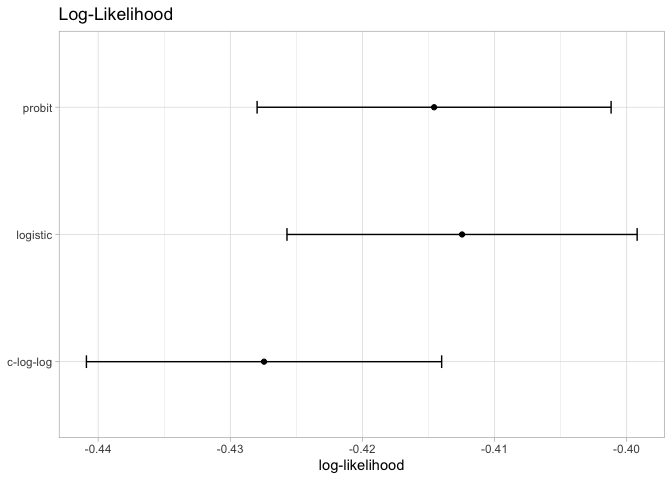
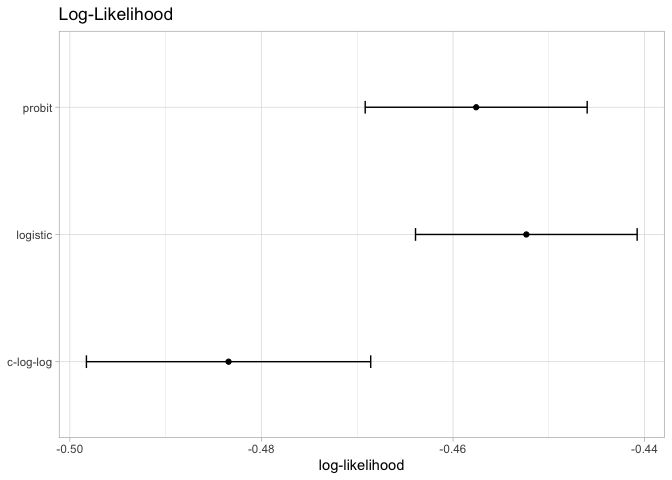
fixing math equations

diff --git a/tmwr/chapter12_tuning.md b/tmwr/chapter12_tuning.md
@@ -36,7 +36,7 @@ with two predictors, two classes, and a training set of 593 data points.
     ## ✖ dplyr::filter()  masks stats::filter()
     ## ✖ dplyr::lag()     masks stats::lag()
     ## ✖ recipes::step()  masks stats::step()
-    ## • Use tidymodels_prefer() to resolve common conflicts.
+    ## • Search for functions across packages at https://www.tidymodels.org/find/
 
     tidymodels_prefer()
 
@@ -51,16 +51,16 @@ with two predictors, two classes, and a training set of 593 data points.
     ## # A tibble: 593 × 3
     ##        A     B Class 
     ##    <dbl> <dbl> <fct> 
-    ##  1 1.90  1.75  Class1
-    ##  2 1.97  2.40  Class2
-    ##  3 1.40  1.16  Class1
-    ##  4 1.71  0.954 Class1
-    ##  5 3.31  2.41  Class2
-    ##  6 0.722 0.545 Class1
-    ##  7 2.88  1.97  Class2
-    ##  8 1.69  1.99  Class2
-    ##  9 2.07  1.65  Class1
-    ## 10 2.53  1.77  Class1
+    ##  1 1.01  0.699 Class1
+    ##  2 3.92  2.73  Class2
+    ##  3 1.13  0.799 Class1
+    ##  4 1.34  0.940 Class1
+    ##  5 3.82  2.16  Class2
+    ##  6 1.18  1.62  Class2
+    ##  7 2.24  1.63  Class2
+    ##  8 1.61  1.71  Class2
+    ##  9 0.606 0.371 Class1
+    ## 10 3.64  1.41  Class1
     ## # ℹ 583 more rows
 
     training_set |> 
@@ -93,9 +93,9 @@ set (using `broom::glance()`):
     ## # A tibble: 3 × 2
     ##   logLik link     
     ##    <dbl> <chr>    
-    ## 1  -241. logit    
-    ## 2  -242. probit   
-    ## 3  -249. c-log-log
+    ## 1  -265. logit    
+    ## 2  -268. probit   
+    ## 3  -279. c-log-log
 
 According to these results, the logistic model has the best statistical
 properties.
@@ -135,21 +135,17 @@ log-likelihood
         .groups = "drop"
       )
 
-    ## → A | warning: glm.fit: fitted probabilities numerically 0 or 1 occurred
-
-    ## There were issues with some computations   A: x1There were issues with some computations   A: x2There were issues with some computations   A: x4There were issues with some computations   A: x6There were issues with some computations   A: x7There were issues with some computations   A: x8There were issues with some computations   A: x9There were issues with some computations   A: x10There were issues with some computations   A: x12There were issues with some computations   A: x13There were issues with some computations   A: x14There were issues with some computations   A: x15There were issues with some computations   A: x16There were issues with some computations   A: x18There were issues with some computations   A: x19There were issues with some computations   A: x20
-
     resampled_res
 
     ## # A tibble: 6 × 4
     ##   model     .metric       mean std_err
     ##   <chr>     <chr>        <dbl>   <dbl>
-    ## 1 c-log-log mn_log_loss -0.427 0.00820
-    ## 2 c-log-log roc_auc      0.893 0.00437
-    ## 3 logistic  mn_log_loss -0.412 0.00808
-    ## 4 logistic  roc_auc      0.893 0.00440
-    ## 5 probit    mn_log_loss -0.415 0.00817
-    ## 6 probit    roc_auc      0.892 0.00440
+    ## 1 c-log-log mn_log_loss -0.483 0.00905
+    ## 2 c-log-log roc_auc      0.875 0.00421
+    ## 3 logistic  mn_log_loss -0.452 0.00705
+    ## 4 logistic  roc_auc      0.875 0.00423
+    ## 5 probit    mn_log_loss -0.458 0.00706
+    ## 6 probit    roc_auc      0.875 0.00421
 
     resampled_res |> 
       filter(.metric=="mn_log_loss") |> 
@@ -214,9 +210,9 @@ any of these options could be used.
     ## # A tibble: 3 × 4
     ##   wflow_id      intercept      a     b
     ##   <chr>             <dbl>  <dbl> <dbl>
-    ## 1 model_logit       -3.99 -1.28   4.06
-    ## 2 model_probit      -2.29 -0.696  2.28
-    ## 3 model_cloglog     -2.90 -0.866  2.54
+    ## 1 model_logit       -3.48 -1.34   3.75
+    ## 2 model_probit      -1.98 -0.719  2.07
+    ## 3 model_cloglog     -2.47 -0.745  2.10
 
     training_set |> 
       ggplot(aes(x=A, y=B, color=Class, shape=Class)) +
@@ -228,17 +224,12 @@ any of these options could be used.
 
 ![](chapter12_tuning_files/figure-markdown_strict/unnamed-chunk-5-1.png)
 
-Remembering Sigmoid Function $$
+Remembering Sigmoid Function
 
-h\_{} = g(z)
-
-z = \_0 + \_1x\_1+\_2x\_2
-
-\_0 + \_1x\_1+\_2x\_2
-
-x\_2 \_0/\_2 + \_1/\_2x\_1
-
-$$
+*h*<sub>*θ*</sub> = *g*(*z*)
+*z* = *θ*<sub>0</sub> + *θ*<sub>1</sub>*x*<sub>1</sub> + *θ*<sub>2</sub>*x*<sub>2</sub>
+*θ*<sub>0</sub> + *θ*<sub>1</sub>*x*<sub>1</sub> + *θ*<sub>2</sub>*x*<sub>2</sub> ≥ 0
+*x*<sub>2</sub> ≥ −*θ*<sub>0</sub>/*θ*<sub>2</sub> + −*θ*<sub>1</sub>/*θ*<sub>2</sub>*x*<sub>1</sub>
 
 # Reference
 
